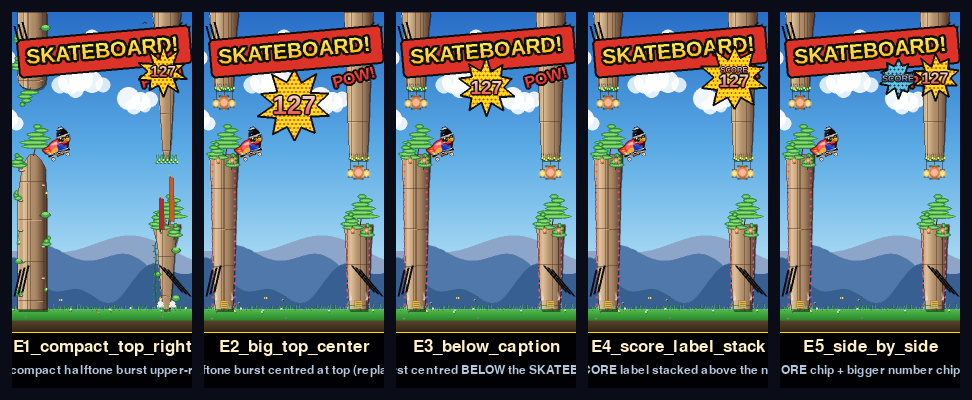
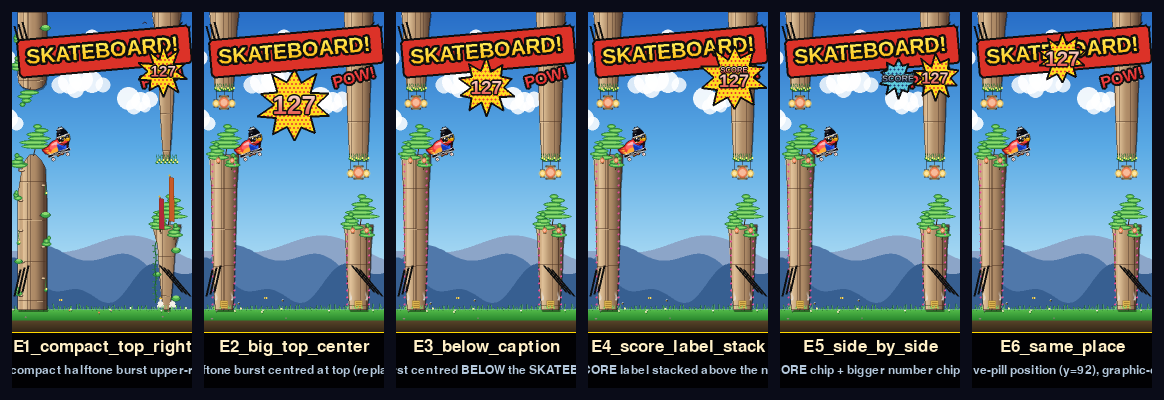
SKATEBOARD: add E6 — D5 score at the LIVE pill position (y=92)
User asked for an additional option that keeps the score in the
exact spot the glass pill normally sits during play (y=92) and only
swaps the graphic to the D5 halftone-burst style. Minimal-change
choice: the player's eyes find the score where they always look,
just the visual reads as a comic burst instead of a glass pill while
the skateboard effect is active.

Width tuned (ro=48, font=42) to roughly match the existing pill
silhouette; rendered at the same y as the live pill.

diff --git a/game/skateboard_fx.py b/game/skateboard_fx.py
@@ -683,6 +683,19 @@ def render_skateboard_score_e5(score: int) -> pygame.Surface:
     return surf
 
 
+def render_skateboard_score_e6(score: int) -> pygame.Surface:
+    """E6 — Score painted at the EXACT live-pill position (y=92) —
+    same spot the score sits during normal play, just restyled into
+    a D5 halftone-comic burst. Minimal-change option: only the
+    graphic swaps; the player's eyes still find the score where they
+    always look. Width roughly matches the existing glass pill so
+    the silhouette stays familiar."""
+    surf = pygame.Surface((W, H), pygame.SRCALPHA)
+    _halftone_score_badge(surf, W // 2, 92, str(score),
+                           ro=48, ri=30, font_size=42)
+    return surf
+
+
 def render_starburst_surface(rng_seed: int = 22) -> pygame.Surface:
     """Self-contained 14-spike yellow/red starburst on a transparent
     BURST_SIZE × BURST_SIZE surface, centered. scenes.py blits this

diff --git a/tools/render_skateboard_score_d5_variants.py b/tools/render_skateboard_score_d5_variants.py
@@ -43,6 +43,7 @@ from game.skateboard_fx import (
     render_skateboard_score_e3,
     render_skateboard_score_e4,
     render_skateboard_score_e5,
+    render_skateboard_score_e6,
 )
 
 
@@ -65,6 +66,8 @@ VARIANTS = [
      "E4: SCORE label stacked above the number"),
     ("E5_side_by_side",      render_skateboard_score_e5,
      "E5: small SCORE chip + bigger number chip side-by-side"),
+    ("E6_same_place",        render_skateboard_score_e6,
+     "E6: SAME live-pill position (y=92), graphic-only restyle"),
 ]
 
 
